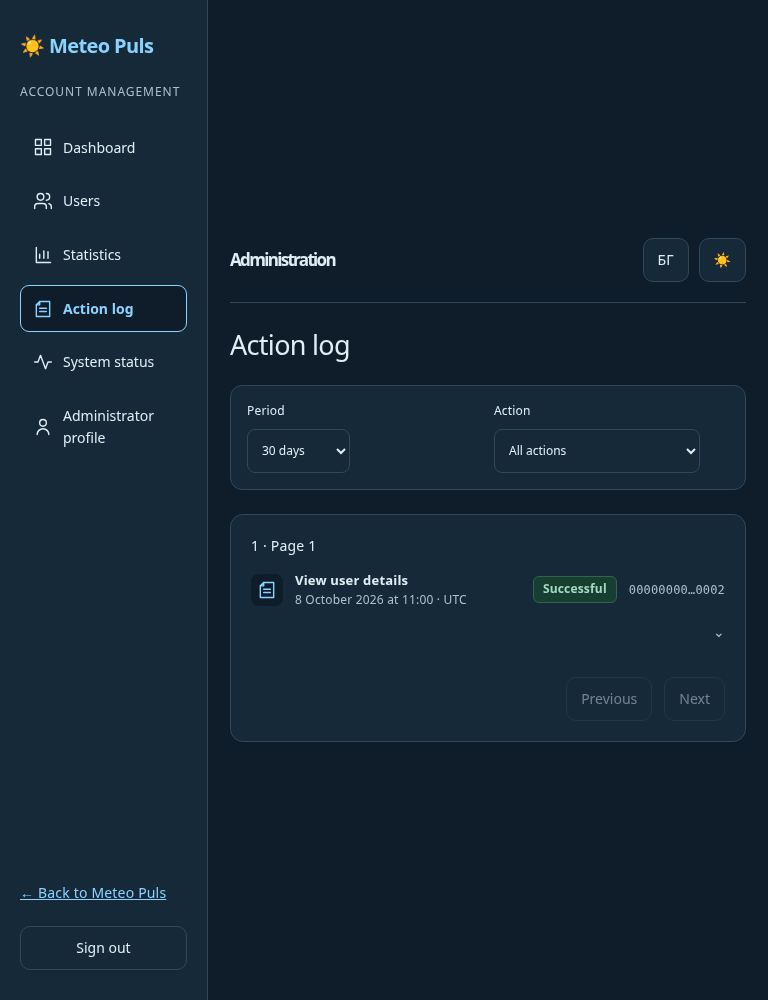
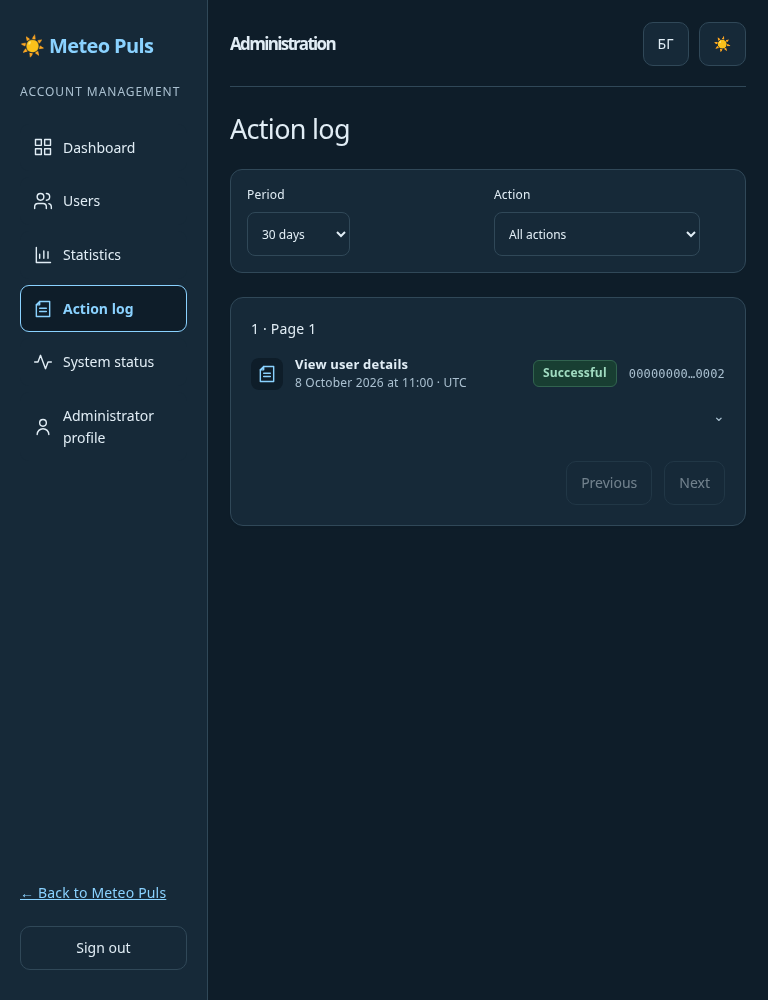
Keep short admin sections top-aligned and test layout geometry

diff --git a/tests/admin-position.spec.ts b/tests/admin-position.spec.ts
@@ -1,0 +1,65 @@
+import { test, expect } from '@playwright/test'
+import { setup } from './admin-fixture'
+import { navigate } from './admin-navigation'
+
+const sections = {
+  bg: ['Начално табло', 'Потребители', 'Статистики', 'Журнал на действията', 'Състояние на системата', 'Администраторски профил'],
+  en: ['Dashboard', 'Users', 'Statistics', 'Action log', 'System status', 'Administrator profile'],
+}
+for (const width of [320, 390, 768, 1440, 2560]) for (const lang of ['bg', 'en'] as const) for (const dark of [false, true]) {
+  test(`short sections start at top ${width} ${lang} ${dark ? 'dark' : 'light'}`, async ({ page }) => {
+    await page.setViewportSize({ width, height: width >= 768 ? 1800 : 844 })
+    await setup(page, { empty: true })
+    // Empty lists and series keep these fixtures short without touching real data.
+    await page.route('**/api/admin?**', route => {
+      const action = new URL(route.request().url()).searchParams.get('action')
+      const shortData: Record<string, unknown> = {
+        users: { users: [], total: 0, pageSize: 20 },
+        'management-users': { users: [], total: 0, pageSize: 20 },
+        audit: { entries: [], total: 0, pageSize: 20 },
+        'management-summary': { blocked: 0, asOf: '2026-10-08T12:00:00Z', entries: [] },
+        analytics: { period: '30', total: 0, last7: 0, last30: 0, login7: 0, login30: 0, noLogin30: 0, free: 0, pro: 0, unknownPlan: 0, favorites: 0, uniqueCities: 0, buckets: [], cities: [] },
+      }
+      return action && action in shortData ? route.fulfill({ json: shortData[action] }) : route.fallback()
+    })
+    await page.goto('/admin')
+    await expect(page.locator('.admin-stats strong').first()).toHaveText('3')
+    if (lang === 'en') await page.getByRole('button', { name: 'EN', exact: true }).click()
+    if (dark) await page.getByRole('button', { name: lang === 'bg' ? 'Смени темата' : 'Toggle theme' }).click()
+    const readySelectors = ['.admin-stats', '.admin-table', '.admin-analytics-grid', '.admin-pagination', '.admin-health-grid', 'main .admin-card']
+    for (const [index, name] of sections[lang].entries()) {
+      await navigate(page, name)
+      await expect(page.locator(readySelectors[index]).first()).toBeVisible()
+      await expect(page.locator('main').getByRole('status').filter({ hasText: /^(Зареждане…|Loading…)$/ })).toHaveCount(0)
+      await page.evaluate(() => window.scrollTo(0, 0))
+      const geometry = await page.locator('.admin-app main').evaluate(main => {
+        const app = main.parentElement!
+        const header = main.querySelector('header')!
+        const rect = main.getBoundingClientRect()
+        const appRect = app.getBoundingClientRect()
+        const style = getComputedStyle(main)
+        const columns = getComputedStyle(app).gridTemplateColumns.split(' ')
+        const sidebarWidth = getComputedStyle(app).display === 'grid' ? parseFloat(columns[0]) : 0
+        const availableWidth = appRect.width - sidebarWidth
+        return {
+          mainTop: rect.top - appRect.top,
+          headerTop: header.getBoundingClientRect().top - appRect.top,
+          paddingTop: parseFloat(style.paddingTop),
+          width: rect.width,
+          maxWidth: parseFloat(style.maxWidth),
+          leftGap: rect.left - appRect.left - sidebarWidth,
+          rightGap: appRect.right - rect.right,
+          expectedWidth: Math.min(availableWidth, 1700),
+          overflow: document.documentElement.scrollWidth > innerWidth,
+        }
+      })
+      expect(geometry.mainTop, name).toBeCloseTo(0, 1)
+      expect(geometry.headerTop, name).toBeCloseTo(geometry.paddingTop, 1)
+      expect(geometry.maxWidth, name).toBe(1700)
+      expect(geometry.width, name).toBeCloseTo(geometry.expectedWidth, 1)
+      expect(geometry.leftGap, name).toBeCloseTo(geometry.rightGap, 1)
+      expect(geometry.overflow, name).toBe(false)
+      if (index === 3 || index === 5) await page.screenshot({ path: `docs/admin-stage5-screenshots/alignment/${index === 3 ? 'audit' : 'profile'}-${width}-${lang}-${dark ? 'dark' : 'light'}.png`, fullPage: true, animations: 'disabled' })
+    }
+  })
+}

diff --git a/src/AdminApp.css b/src/AdminApp.css
@@ -25,7 +25,7 @@
 .admin-app button[aria-current=page]{background:var(--bg);color:var(--accent);border-color:var(--line);font-weight:700}
 .admin-app aside>a:not(.admin-brand){margin-top:auto}.admin-app button{min-height:44px;transition:background .15s,border-color .15s}
 .admin-app button:hover:not(:disabled){background:var(--bg);border-color:var(--accent)}
-.admin-app main{padding:24px 36px 40px;max-width:1700px;width:100%;margin:auto;align-self:start}
+.admin-app main{padding:24px 36px 40px;max-width:1700px;width:100%;margin:0 auto;align-self:start}
 .admin-app header{border-bottom:1px solid var(--line);padding-bottom:20px;margin-bottom:26px}.admin-app header h1{font-size:17px;margin:0;font-weight:650}
 .admin-heading{display:flex;align-items:center;gap:12px}.admin-app .admin-menu-toggle{display:none}
 .admin-section-heading{margin-bottom:24px}.admin-section-heading h2{font-size:27px;letter-spacing:-.7px;margin:0 0 4px}.admin-section-heading p{margin:0;color:var(--muted)}

diff --git a/docs/admin-stage5-bg.md b/docs/admin-stage5-bg.md
@@ -30,7 +30,7 @@
 | `npm run typecheck` | PASS |
 | `npm run build` | PASS; остава съществуващото предупреждение за Vercel insights script без `type="module"` |
 | `npm run test:admin:sql` | PASS — действителни disposable PostgreSQL/PostgREST, JWT, изолация, fail-closed журнал, Free/Pro, replay и конкурентни retries |
-| `CHROMIUM_PATH=/usr/bin/chromium npm run test:admin:browser -- --workers=2` | PASS — 85/85, финален пълен прогон за 3.3 минути |
+| `CHROMIUM_PATH=/usr/bin/chromium npm run test:admin:browser -- --workers=2` | PASS — 105/105, финален пълен прогон за 4.0 минути |
 
 Регресионните проверки запазват търсене, филтри, странициране, favorites, правата/грешките, Free→Pro→Free, двойно натискане, cancellation, повторен request identifier и точния брой три журнализирани четения на профил. Допълнителните проверки покриват UUID copy, клавиатурно разгъване на журнала, 3→8→3 история без допълнителни заявки и реално преобразуване на часове в `Europe/Sofia` и `America/New_York`.
 
@@ -57,3 +57,16 @@
 Няма промени в `api/`, `server/`, `supabase/`, SQL миграции, `admin-client`, удостоверяване, OAuth, сесии, публичния UI, метеорологичните функции, чатбота, любимите градове или dependencies. Съществуващите пет API endpoints остават същите. Няма нови външни услуги, ръчни Production операции, реални промени на акаунти или SQL извън disposable тестовите контейнери.
 
 SQL тестът използва минимална Auth схема и реални PostgreSQL/PostgREST. Пълният Supabase GoTrue и deployed Vercel API не са упражнени. Няма автоматично сливане на PR или ръчно deployment.
+
+
+## Корекция: начална позиция при кратко съдържание
+
+Вертикалното `margin: auto` на `.admin-app main` центрираше кратките страници в grid реда въпреки `align-self: start`. Заменено е с `margin: 0 auto`: вертикалните отстояния са нулеви, хоризонталното центриране, `width: 100%`, `max-width: 1700px` и съществуващият padding са запазени.
+
+Новият браузърен тест възпроизведе дефекта преди поправката: началото на `main` беше 416.9375 px под началото на администрацията при 1440 px. Проверява се реалната геометрия, а не текстът на CSS правилото.
+
+Регресионната матрица проверява шестте административни раздела с изолирани кратки/празни данни на 320/390/768/1440/2560 px, BG/EN и light/dark: 20 браузърни теста × 6 раздела = 120 геометрични проверки. Проверени са нулевото вертикално отстояние, началото на header непосредствено след padding, симетричното хоризонтално центриране, максималната ширина и липсата на overflow. 2560 px упражнява действителното ограничаване до 1700 px.
+
+Актуалните screenshots за журнала и профила при кратко съдържание са в [alignment](admin-stage5-screenshots/alignment/); съществуващите `after` снимки се обновяват от пълния браузърен прогон. `before` снимките остават историческата база.
+
+Всички шест проверки са успешни: unit (24 test-file резултата), lint, typecheck, build, изолирани SQL/JWT тестове и 105/105 браузърни теста (4.0 минути). Окончателният фокусиран прогон на геометричната регресия също е PASS — 20/20 (53.5 секунди), с независимо очакване за максимална ширина 1700 px. Доказателството за автоматичния Vercel Preview на точния нов commit се добавя към описанието на PR №55 след публикуването. Поправката е само CSS и тестове; API, SQL, Supabase и бизнес логиката са непроменени. Използва се същият PR №55 към main.
